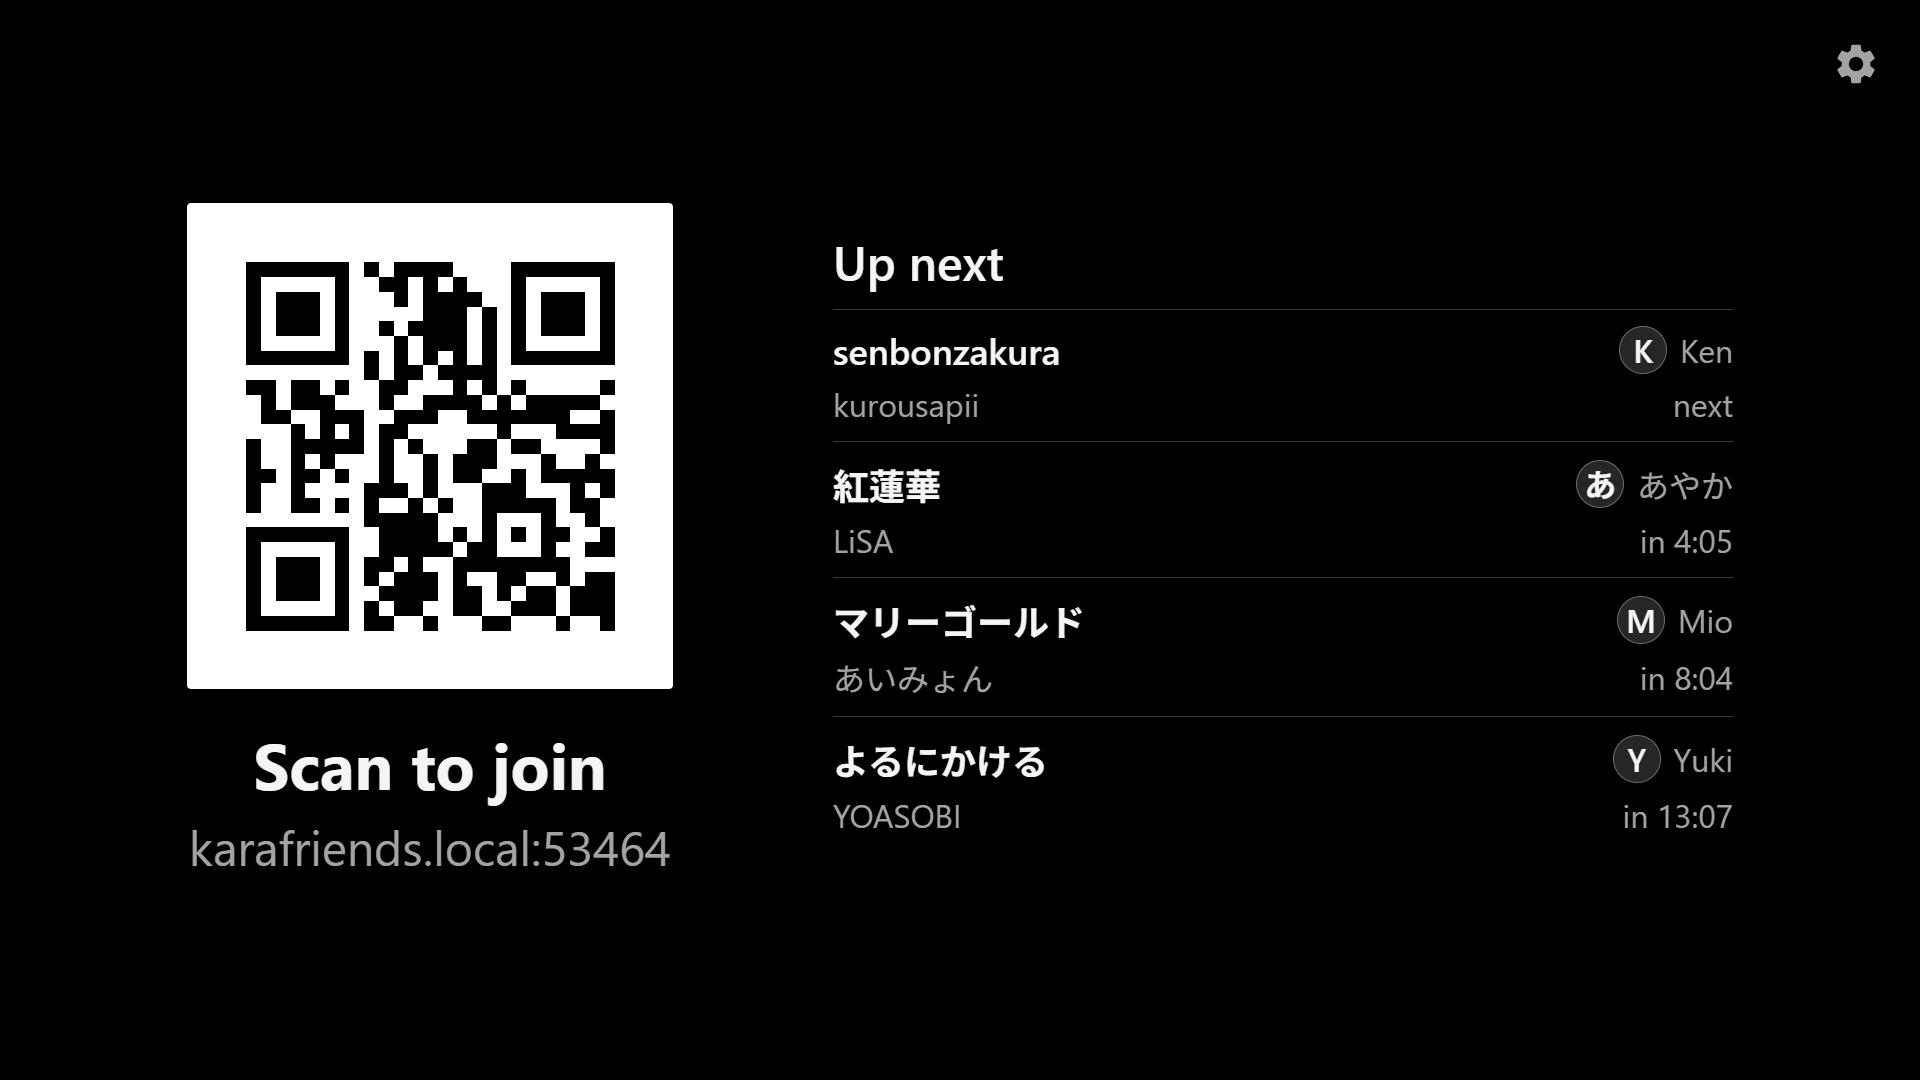
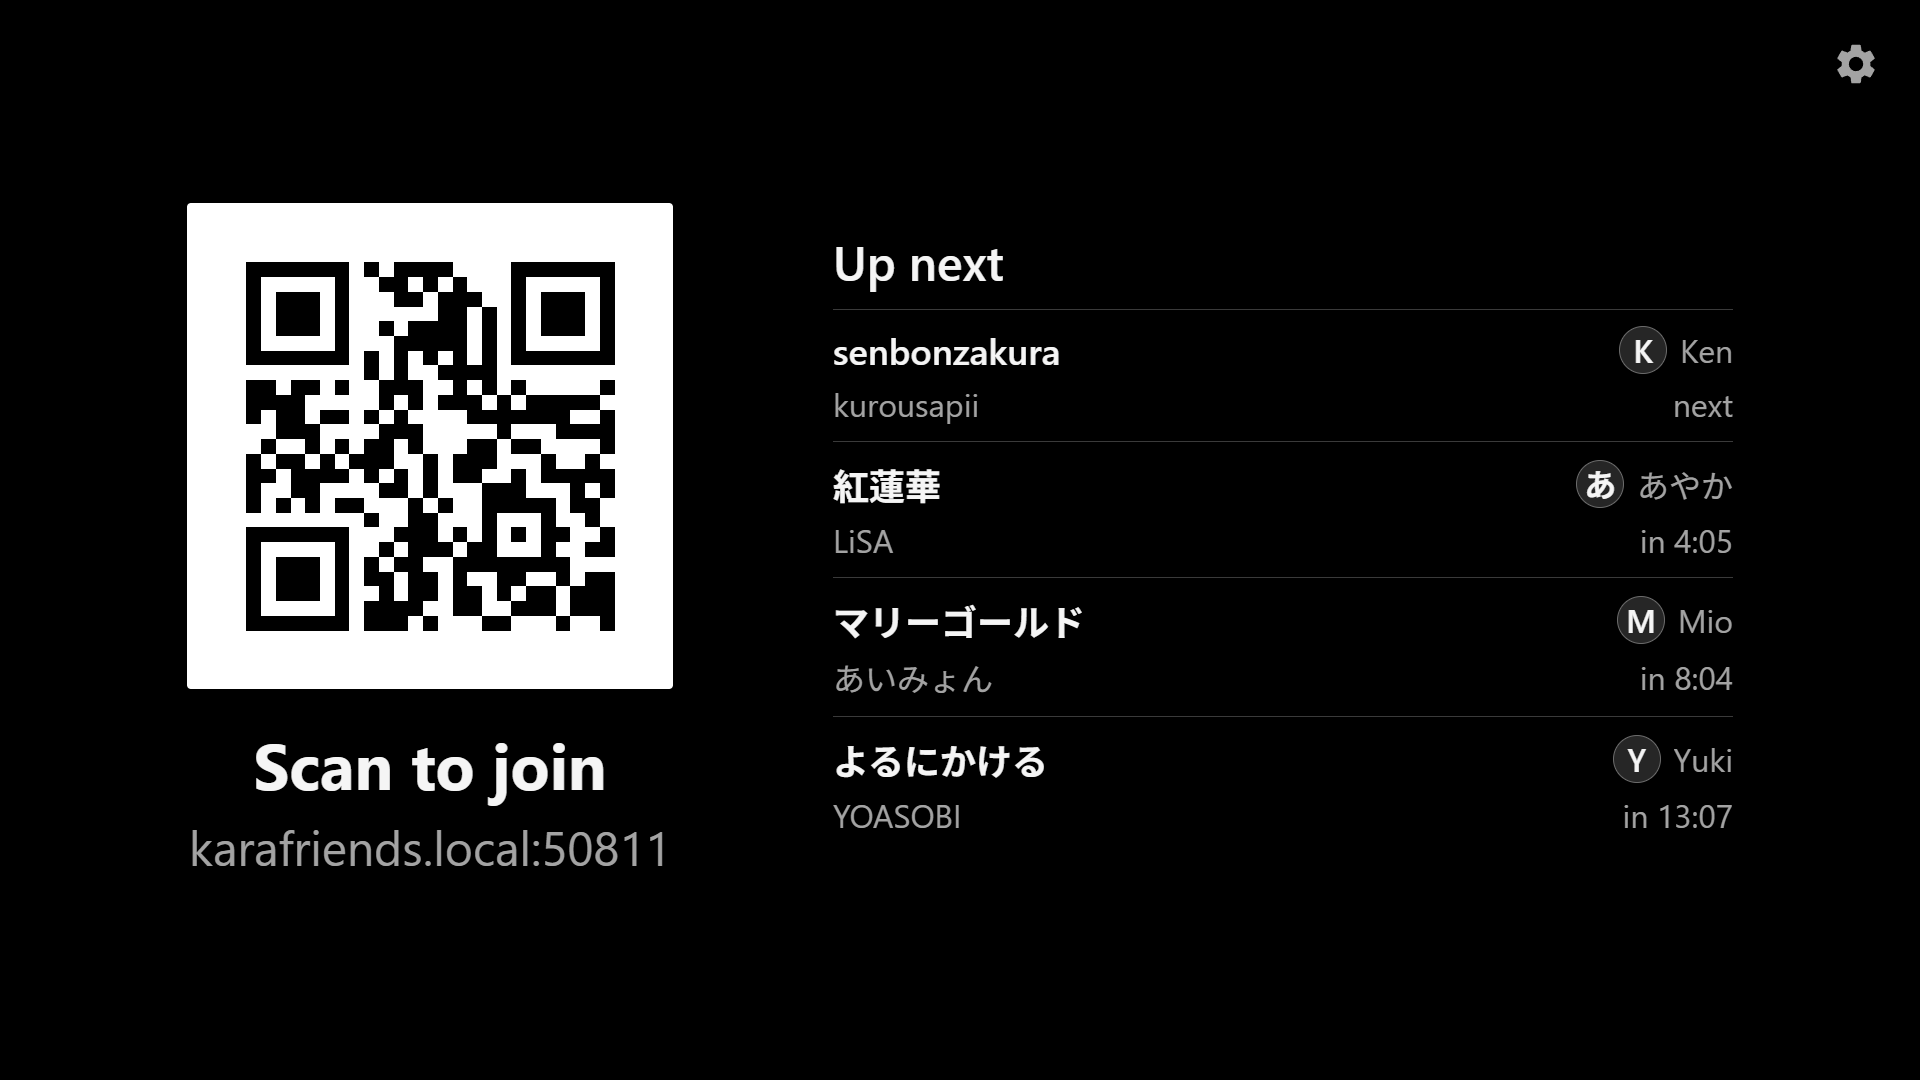
Screenshot of Settings' Display section, and the P3 shots retaken
The first P3 shots predate the strip's gap before the wait.

Changed region(s): [[0.125, 0.3361, 0.25, 0.5806], [0.2812, 0.7639, 0.3438, 0.825], [0.2188, 0.275, 0.25, 0.3056]]

diff --git a/tests/e2e/screenshotsDisplay.spec.ts b/tests/e2e/screenshotsDisplay.spec.ts
@@ -217,6 +217,17 @@ test.describe("P3, four queued with readings", () => {
       path: path.join(OUT_DIR, "p-display-playing.png"),
       animations: "disabled",
     });
+
+    // Settings' Display section.
+    await display.keyboard.press("s");
+    await display
+      .getByRole("dialog", { name: "Settings" })
+      .getByRole("region", { name: "Display" })
+      .evaluate((element) => element.scrollIntoView({ block: "start" }));
+    await display.screenshot({
+      path: path.join(OUT_DIR, "p-display-settings.png"),
+      animations: "disabled",
+    });
   });
 });
 
